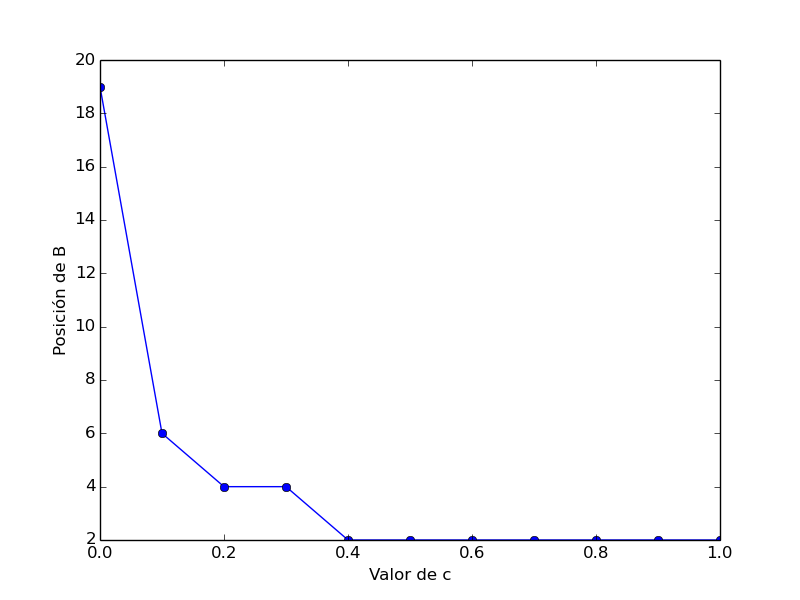
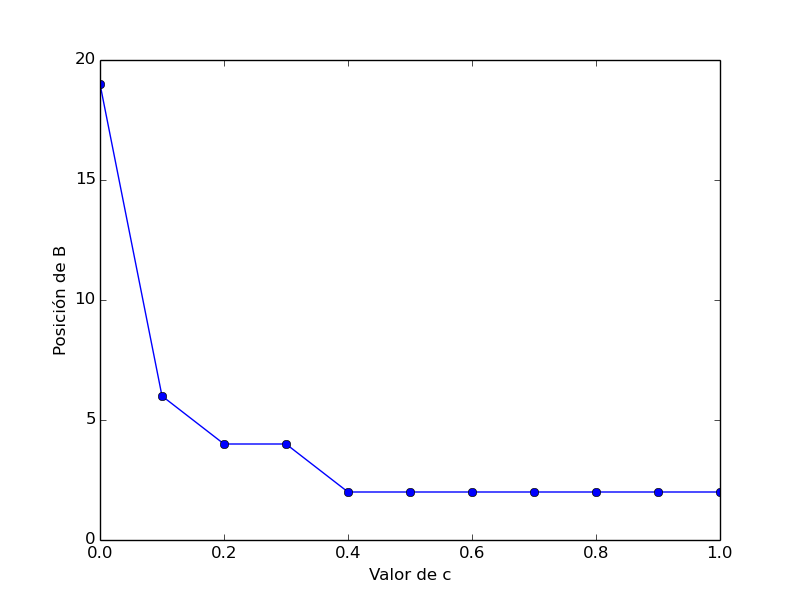
Cambios varios a exp7 y 8

diff --git a/tp2/src/exp/exp7/bnacional.py b/tp2/src/exp/exp7/bnacional.py
@@ -1,6 +1,7 @@
 #!/usr/bin/python3
 import os
 import random
+import matplotlib.pyplot as plt
 from subprocess import call
 
 ORDEN_OFICIAL = [
@@ -107,8 +108,7 @@ def diferencia_entre_rankings(orden1, orden2):
     return diferencia
 
 
-def plotear_salida(diferencia_con_gem, diferencia_con_oficial):
-    import matplotlib.pyplot as plt
+def plotear_diferencias(diferencia_con_gem, diferencia_con_oficial):
     plt.plot(diferencia_con_oficial, label="vs ránking oficial")
     plt.plot(diferencia_con_gem, label="vs GeM sin partido simulado")
     plt.legend(loc=4)
@@ -117,16 +117,28 @@ def plotear_salida(diferencia_con_gem, diferencia_con_oficial):
     plt.savefig("diferencia.png")
 
 
+def plotear_posiciones(posiciones):
+    plt.clf()
+    plt.plot(posiciones)
+    plt.ylabel("Posición de Villa San Carlos")
+    plt.xlabel("Diferencia de goles simulada entre Villa San Carlos y Banfield")
+    plt.savefig("posicion.png")
+
+
 equipos = parsear_e_imprimir()
 ejecutar_pagerank("bnacional")
 orden1 = parsear_salida(equipos, "bnacional")
-diferencia_con_gem, diferencia_con_oficial = [], []
+diferencia_con_gem, diferencia_con_oficial, posiciones_vsc = [], [], []
 for goles in range(70):
     print("Goles:", goles)
     generar_fake("bnacional", "bnacional-fake", goles)
     ejecutar_pagerank("bnacional-fake")
     orden2 = parsear_salida(equipos, "bnacional-fake")
+    posicion_vsc = orden2.index("S_Carlos") + 1
+    print("Posición Villa San Carlos:", posicion_vsc)
+    posiciones_vsc.append(posicion_vsc)
     diferencia_con_gem.append(diferencia_entre_rankings(orden1, orden2))
     print("Diferencia:", diferencia_entre_rankings(orden1, orden2))
     diferencia_con_oficial.append(diferencia_con_ideal(orden2))
-plotear_salida(diferencia_con_gem, diferencia_con_oficial)
+plotear_diferencias(diferencia_con_gem, diferencia_con_oficial)
+plotear_posiciones(posiciones_vsc)

diff --git a/tp2/informe/experimento8.tex b/tp2/informe/experimento8.tex
@@ -16,10 +16,10 @@
         B estar\'ia en la \'ultima posici\'on y A estar\'ia en la primera
         (eventualmente compartiendo dichas posiciones con alg\'un otro equipo).
         Entendemos entonces que este caso particular el ranking 3-1-0 es
-        ''justo'' en este caso y en este aspecto. Pero intu\'imos que esto no
-        ser\'a lo que ocurra con GeM, ya que en el grafo de la instancia, A
-        tiene un \'unicp eje saliente (hacia B) y 18 entrantes, con lo cual su
-        arista deber\'ia hacer subir mucho a B en el ranking.\\
+        ''justo'' en este aspecto. Pero intu\'imos que esto no ser\'a lo que
+        ocurra con GeM, ya que en el grafo de la instancia, A tiene un \'unico
+        eje saliente (hacia B) y 18 entrantes, con lo cual su arista deber\'ia
+        hacer subir mucho a B en el ranking.\\
 
     \item[Hip\'otesis] PageRank/GeM no es ''justo'' en cuanto al aspecto
         mencionado.\\
@@ -32,6 +32,7 @@
         trabajo).\\
 
     \item[Resultados, an\'alisis y discusi\'on]
+        
 \end{LaTeXdescription}
 
 \begin{wrapfigure}{l}{0.5\textwidth}

diff --git a/tp2/src/exp/exp8/fixtures_ideales.py b/tp2/src/exp/exp8/fixtures_ideales.py
@@ -54,6 +54,8 @@ def plotear_salida(res):
     c = [t[0] for t in res]
     posiciones = [t[1] for t in res]
     plt.plot(c, posiciones, 'o-')
+    x1, x2, y1, y2 = plt.axis()
+    plt.axis((0, x2, 0, y2))
     plt.ylabel("Posición de B")
     plt.xlabel("Valor de c")
     plt.savefig("exp8.png")
